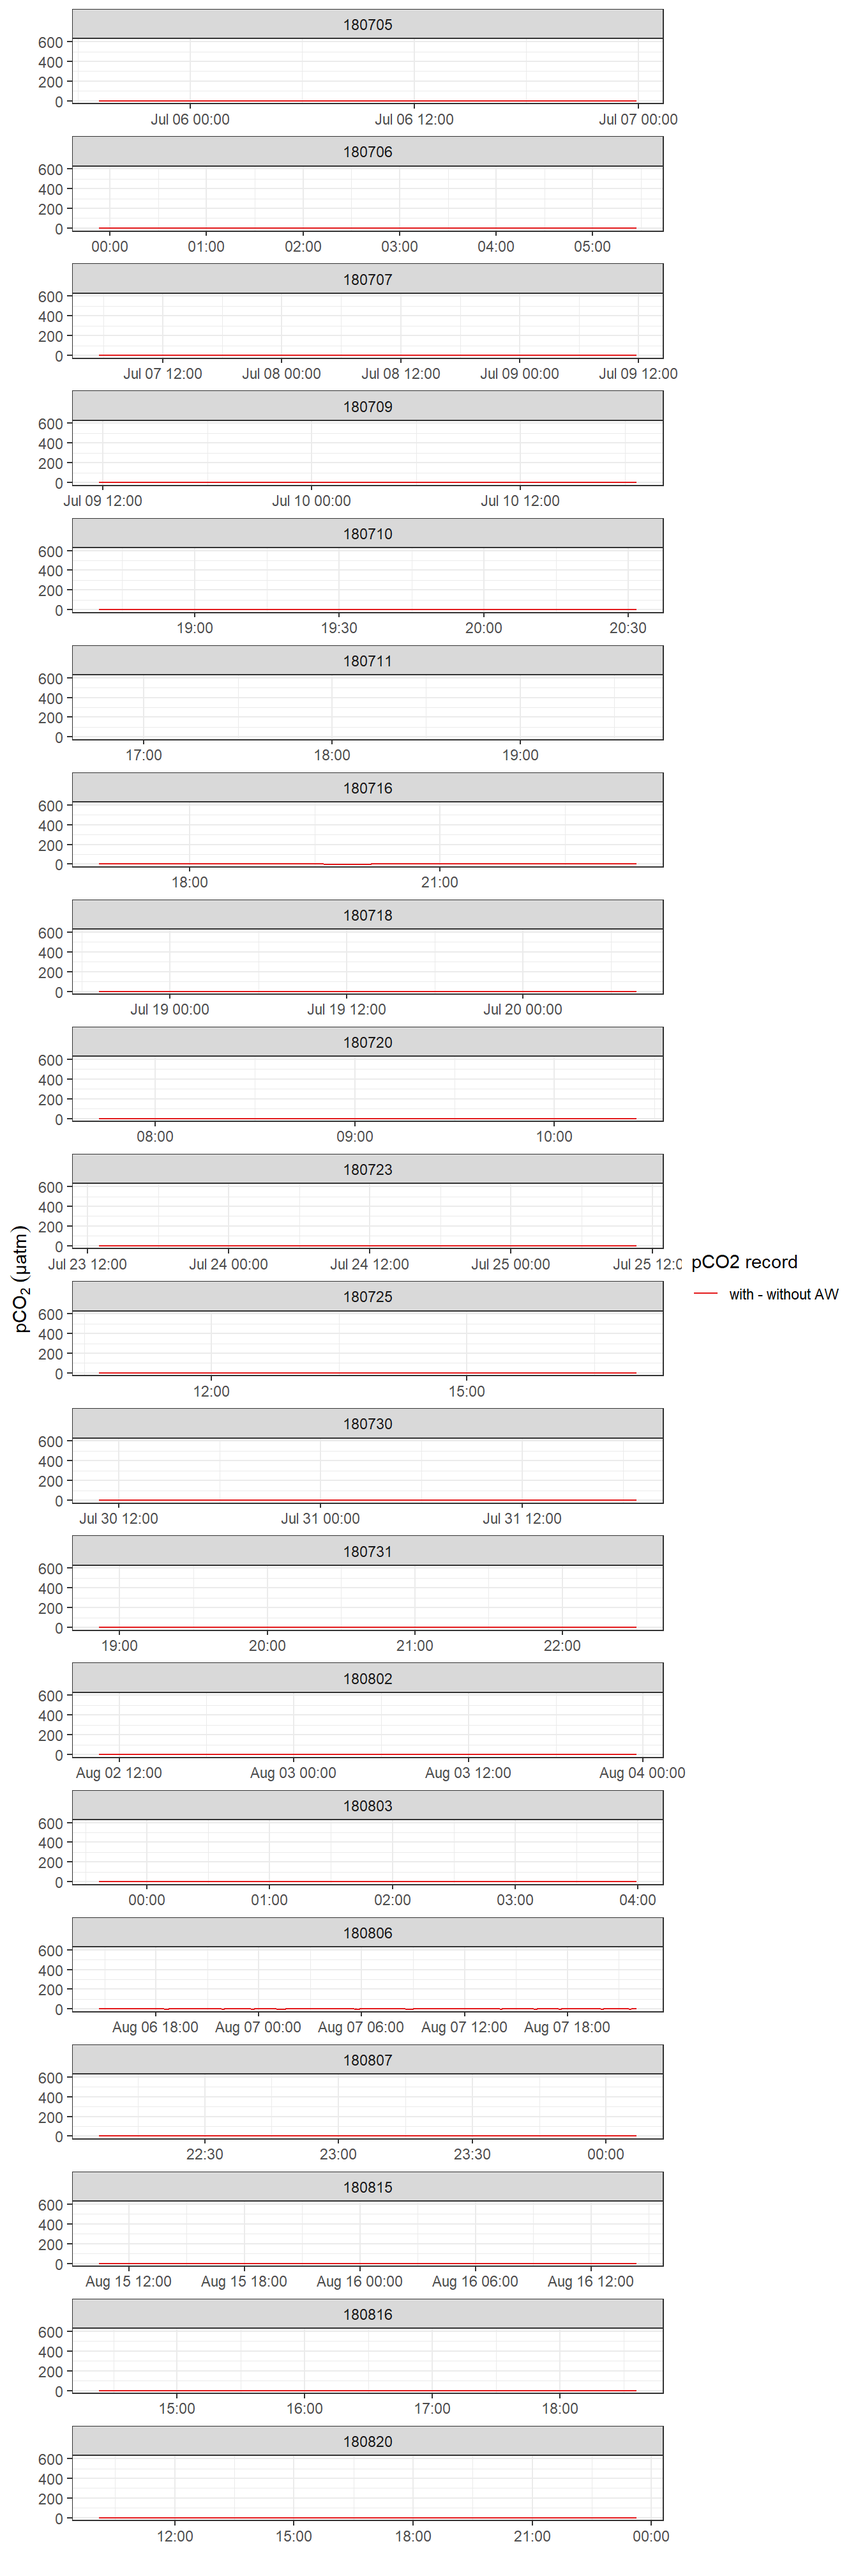
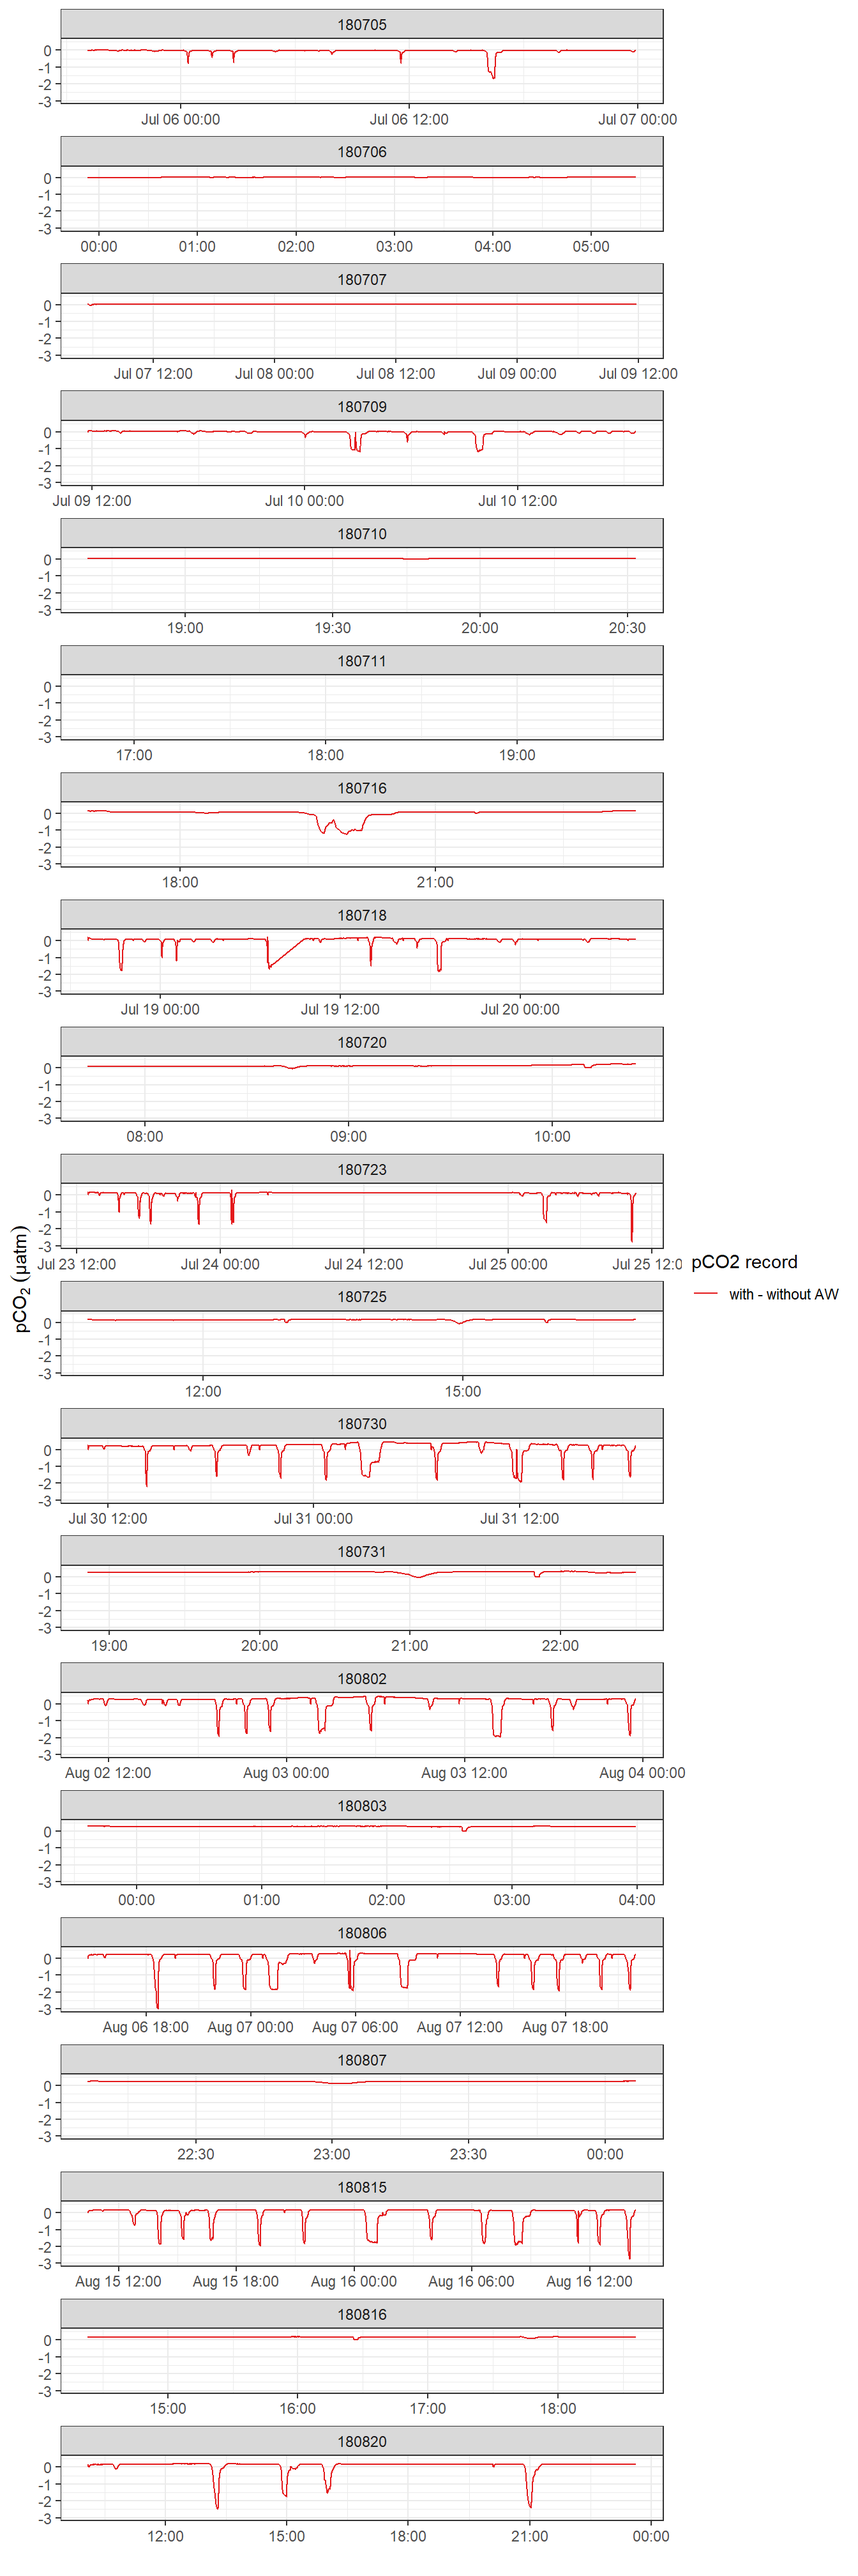
Build site.

diff --git a/docs/merging_interpolation.html b/docs/merging_interpolation.html
@@ -549,16 +549,16 @@ This reproducible <a href="http://rmarkdown.rstudio.com">R Markdown</a> analysis
 <div class="panel panel-default">
 <div class="panel-heading">
 <p class="panel-title">
-<a data-toggle="collapse" data-parent="#workflowr-checks" href="#strongRepositoryversionstrongahrefhttpsgithubcomjensdanielmuellerBloomSailtreeed17078318ad94cc849fb3f603df982e4b82e813targetblanked17078a"> <span class="glyphicon glyphicon-ok text-success" aria-hidden="true"></span> <strong>Repository version:</strong> <a href="https://github.com/jens-daniel-mueller/BloomSail/tree/ed17078318ad94cc849fb3f603df982e4b82e813" target="_blank">ed17078</a> </a>
+<a data-toggle="collapse" data-parent="#workflowr-checks" href="#strongRepositoryversionstrongahrefhttpsgithubcomjensdanielmuellerBloomSailtree3ad71b0fbf2495b8f5f853a992e83bea7da1c8d2targetblank3ad71b0a"> <span class="glyphicon glyphicon-ok text-success" aria-hidden="true"></span> <strong>Repository version:</strong> <a href="https://github.com/jens-daniel-mueller/BloomSail/tree/3ad71b0fbf2495b8f5f853a992e83bea7da1c8d2" target="_blank">3ad71b0</a> </a>
 </p>
 </div>
[2 lines of base64/hex data omitted]
 <div class="panel-body">
 <p>
 Great! You are using Git for version control. Tracking code development and connecting the code version to the results is critical for reproducibility.
 </p>
 <p>
-The results in this page were generated with repository version <a href="https://github.com/jens-daniel-mueller/BloomSail/tree/ed17078318ad94cc849fb3f603df982e4b82e813" target="_blank">ed17078</a>. See the <em>Past versions</em> tab to see a history of the changes made to the R Markdown and HTML files.
+The results in this page were generated with repository version <a href="https://github.com/jens-daniel-mueller/BloomSail/tree/3ad71b0fbf2495b8f5f853a992e83bea7da1c8d2" target="_blank">3ad71b0</a>. See the <em>Past versions</em> tab to see a history of the changes made to the R Markdown and HTML files.
 </p>
 <p>
 Note that you need to be careful to ensure that all relevant files for the analysis have been committed to Git prior to generating the results (you can use <code>wflow_publish</code> or <code>wflow_git_commit</code>). workflowr only checks the R Markdown file, but you know if there are other scripts or data files that it depends on. Below is the status of the Git repository when the results were generated:
@@ -632,6 +632,40 @@ Message
 </tr>
 </thead>
 <tbody>
+<tr>
+<td>
+Rmd
+</td>
+<td>
+<a href="https://github.com/jens-daniel-mueller/BloomSail/blob/3ad71b0fbf2495b8f5f853a992e83bea7da1c8d2/analysis/merging_interpolation.Rmd" target="_blank">3ad71b0</a>
+</td>
+<td>
+jens-daniel-mueller
+</td>
+<td>
+2020-09-23
+</td>
+<td>
+included postprocessed cleaned data
+</td>
+</tr>
+<tr>
+<td>
+html
+</td>
+<td>
+<a href="https://rawcdn.githack.com/jens-daniel-mueller/BloomSail/aea9be2a8c0c945804ab85debe5c41d383f15db0/docs/merging_interpolation.html" target="_blank">aea9be2</a>
+</td>
+<td>
+jens-daniel-mueller
+</td>
+<td>
+2020-09-23
+</td>
+<td>
+Build site.
+</td>
+</tr>
 <tr>
 <td>
 Rmd
@@ -1866,7 +1900,6 @@ th_comparison %&gt;%
   ggplot() +
   geom_path(aes(date_time, pCO2_withoutAW-pCO2_withAW, col = &quot;with - without AW&quot;))+
   scale_color_brewer(palette = &quot;Set1&quot;, name = &quot;pCO2 record&quot;)+
-  coord_cartesian(ylim = c(0,600))+
   labs(y=expression(pCO[2]~(µatm)), x=&quot;&quot;)+
   facet_wrap(~ID, scales = &quot;free_x&quot;, ncol = 1)</code></pre>
 <p><img src="figure/merging_interpolation.Rmd/compare_processed_hc_files-2.png" width="672" style="display: block; margin: auto;" /></p>
